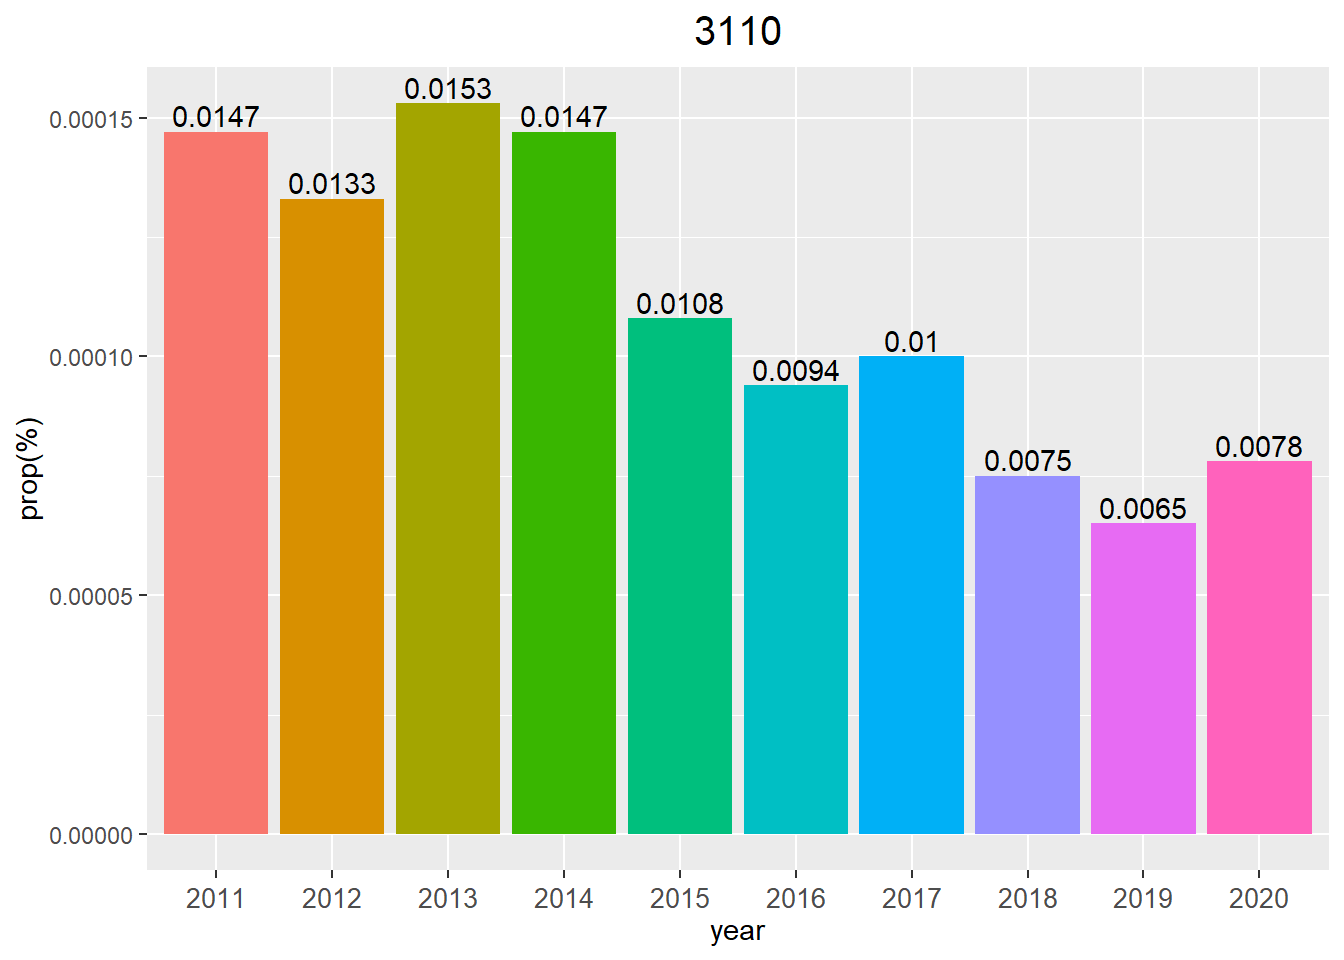
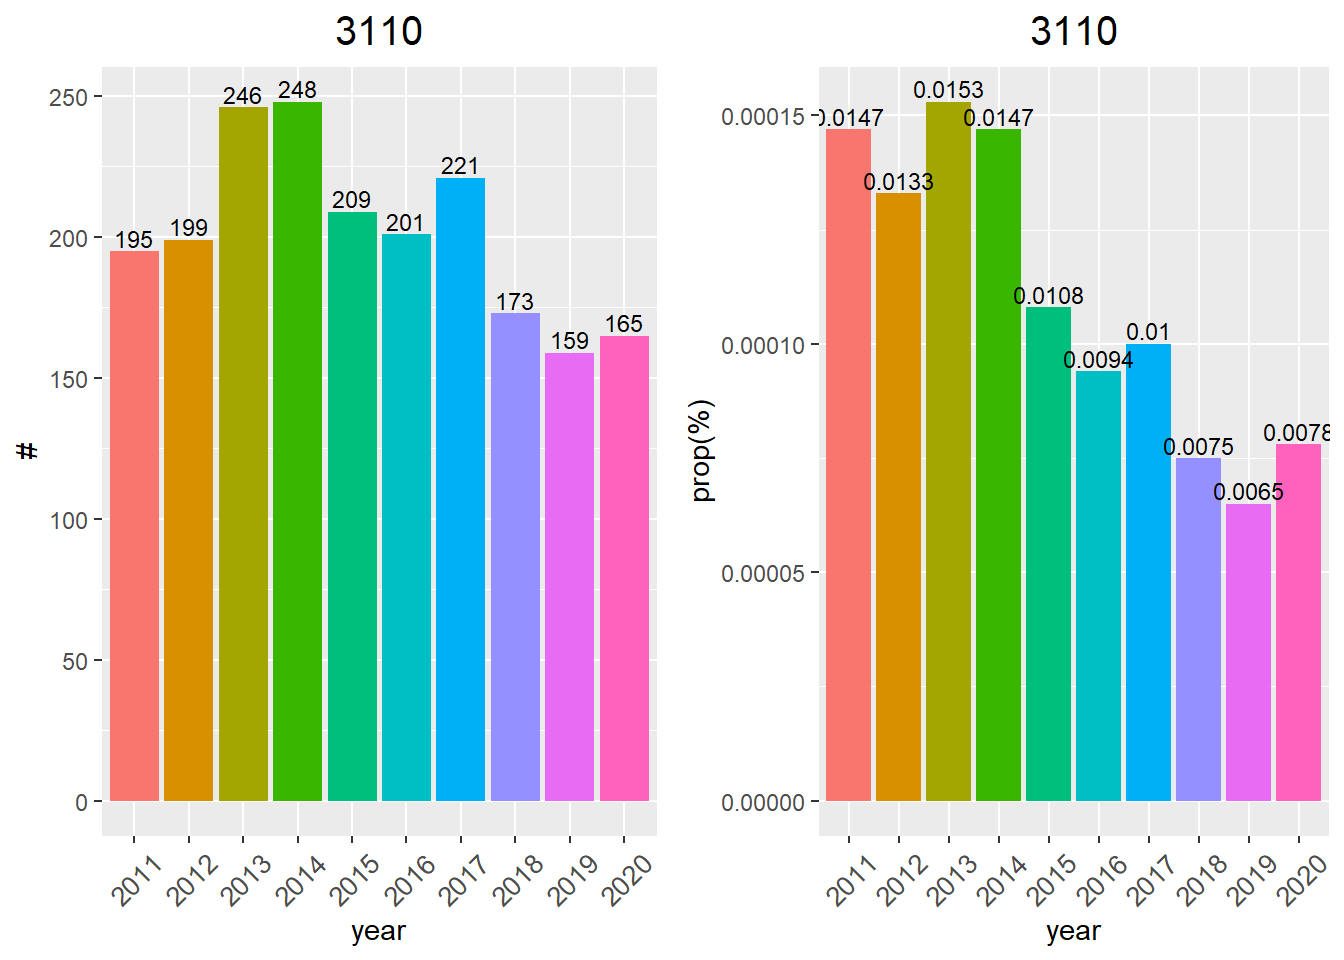
6/20/2024

diff --git a/docs/ddwi_part1.html b/docs/ddwi_part1.html
@@ -558,15 +558,15 @@ project makes it easier to run your code on other machines.</p>
 <div class="panel panel-default">
 <div class="panel-heading">
 <p class="panel-title">
-<a data-toggle="collapse" data-parent="#workflowr-checks" href="#strongRepositoryversionstrongahrefhttpsgithubcomhan16Oralpublichealthtree1479a72ddec0b7ba03f8299687828614fe512211targetblank1479a72a">
+<a data-toggle="collapse" data-parent="#workflowr-checks" href="#strongRepositoryversionstrongahrefhttpsgithubcomhan16Oralpublichealthtreee62c87ba8ab22a635fc8ad85d6e9c2c783a807fctargetblanke62c87ba">
 <span class="glyphicon glyphicon-ok text-success"
 aria-hidden="true"></span> <strong>Repository version:</strong>
-<a href="https://github.com/han16/Oral-public-health/tree/1479a72ddec0b7ba03f8299687828614fe512211" target="_blank">1479a72</a>
+<a href="https://github.com/han16/Oral-public-health/tree/e62c87ba8ab22a635fc8ad85d6e9c2c783a807fc" target="_blank">e62c87b</a>
 </a>
 </p>
 </div>
 <div
[2 lines of base64/hex data omitted]
 class="panel-collapse collapse">
 <div class="panel-body">
 <p>
@@ -576,7 +576,7 @@ reproducibility.
 </p>
 <p>
 The results in this page were generated with repository version
-<a href="https://github.com/han16/Oral-public-health/tree/1479a72ddec0b7ba03f8299687828614fe512211" target="_blank">1479a72</a>.
+<a href="https://github.com/han16/Oral-public-health/tree/e62c87ba8ab22a635fc8ad85d6e9c2c783a807fc" target="_blank">e62c87b</a>.
 See the <em>Past versions</em> tab to see a history of the changes made
 to the R Markdown and HTML files.
 </p>
@@ -642,6 +642,40 @@ Message
 </tr>
 </thead>
 <tbody>
+<tr>
+<td>
+Rmd
+</td>
+<td>
+<a href="https://github.com/han16/Oral-public-health/blob/e62c87ba8ab22a635fc8ad85d6e9c2c783a807fc/analysis/ddwi_part1.Rmd" target="_blank">e62c87b</a>
+</td>
+<td>
+han
+</td>
+<td>
+2024-06-20
+</td>
+<td>
+6/20/2024
+</td>
+</tr>
+<tr>
+<td>
+html
+</td>
+<td>
+<a href="https://rawcdn.githack.com/han16/Oral-public-health/e62c87ba8ab22a635fc8ad85d6e9c2c783a807fc/docs/ddwi_part1.html" target="_blank">e62c87b</a>
+</td>
+<td>
+han
+</td>
+<td>
+2024-06-20
+</td>
+<td>
+6/20/2024
+</td>
+</tr>
 <tr>
 <td>
 Rmd
@@ -722,7 +756,7 @@ han
 <div id="d3110-pr-pulp-cap---direct-excluding-final-restoration"
 class="section level3">
 <h3>D3110 PR PULP CAP - DIRECT (EXCLUDING FINAL RESTORATION)</h3>
-<pre class="r"><code>num=numeric(); prop=numeric()
+<pre class="r"><code>num=numeric(); prop=numeric(); total_claims=numeric()
 code=3110
 for (i in 1:length(all_data))
 {
@@ -730,75 +764,32 @@ for (i in 1:length(all_data))
   {
   num[i]=sum(all_data[[i]]$`Claims and Provider `$`Submitted Procedure Code`==code)+sum(all_data[[i]]$`Claims and Provider (1)`$`Submitted Procedure Code`==code)
   prop[i]=num[i]/(nrow(all_data[[i]]$`Claims and Provider `)+nrow(all_data[[i]]$`Claims and Provider (1)`))
+  total_claims[i]=nrow(all_data[[i]]$`Claims and Provider `)+nrow(all_data[[i]]$`Claims and Provider (1)`)
+  prop[i]=num[i]/total_claims[i]
   }
   
   if (i&gt;=6)
   {
   num[i]=sum(all_data[[i]]$`Claims and Provider `$`Submitted Procedure Code`==code)+sum(all_data[[i]]$`Claims and Provider (1)`$`Submitted Procedure Code`==code)+sum(all_data[[i]]$`Claims and Provider (2)`$`Submitted Procedure Code`==code)
-  prop[i]=num[i]/(nrow(all_data[[i]]$`Claims and Provider `)+nrow(all_data[[i]]$`Claims and Provider (1)`)+nrow(all_data[[i]]$`Claims and Provider (2)`))
+  total_claims[i]=nrow(all_data[[i]]$`Claims and Provider `)+nrow(all_data[[i]]$`Claims and Provider (1)`)+nrow(all_data[[i]]$`Claims and Provider (2)`)
+  prop[i]=num[i]/total_claims[i]
   
   }
   
 }</code></pre>
-<p><img src="figure/ddwi_part1.Rmd/unnamed-chunk-5-1.png" width="672" style="display: block; margin: auto;" /></p>
-<p>
-<button type="button" class="btn btn-default btn-xs btn-workflowr btn-workflowr-fig" data-toggle="collapse" data-target="#fig-unnamed-chunk-5-1">
-Past versions of unnamed-chunk-5-1.png
-</button>
-</p>
-<div id="fig-unnamed-chunk-5-1" class="collapse">
-<div class="table-responsive">
-<table class="table table-condensed table-hover">
-<thead>
-<tr>
-<th>
-Version
-</th>
-<th>
-Author
-</th>
-<th>
-Date
-</th>
-</tr>
-</thead>
-<tbody>
-<tr>
-<td>
-<a href="https://github.com/han16/Oral-public-health/blob/1479a72ddec0b7ba03f8299687828614fe512211/docs/figure/ddwi_part1.Rmd/unnamed-chunk-5-1.png" target="_blank">1479a72</a>
-</td>
-<td>
-han
-</td>
-<td>
-2024-06-19
-</td>
-</tr>
-<tr>
-<td>
-<a href="https://github.com/han16/Oral-public-health/blob/011b3b8053f3ca28bf3fa69aa0ada1609bd9046f/docs/figure/ddwi_part1.Rmd/unnamed-chunk-5-1.png" target="_blank">011b3b8</a>
-</td>
-<td>
-han
-</td>
-<td>
-2024-06-18
-</td>
-</tr>
-</tbody>
-</table>
-</div>
-</div>
 <div class="datatables html-widget html-fill-item" id="htmlwidget-9eceb20dc2a931752ae4" style="width:100%;height:auto;"></div>
-<script type="application/json" data-for="htmlwidget-9eceb20dc2a931752ae4">{"x":{"filter":"none","vertical":false,"extensions":["Buttons"],"data":[["1","2","3","4","5","6","7","8","9","10"],[195,199,246,248,209,201,221,173,159,165],[0.000147,0.000133,0.000153,0.000147,0.000108,9.399999999999999e-05,0.0001,7.499999999999999e-05,6.499999999999999e-05,7.8e-05],["2011","2012","2013","2014","2015","2016","2017","2018","2019","2020"]],"container":"<table class=\"display\">\n  <thead>\n    <tr>\n      <th> <\/th>\n      <th>num<\/th>\n      <th>prop<\/th>\n      <th>year<\/th>\n    <\/tr>\n  <\/thead>\n<\/table>","options":{"dom":"Blfrtip","buttons":["copy","csv","excel","pdf","print"],"lengthMenu":[[10,25,50,-1],["10","25","50","All"]],"columnDefs":[{"className":"dt-right","targets":[1,2]},{"orderable":false,"targets":0},{"name":" ","targets":0},{"name":"num","targets":1},{"name":"prop","targets":2},{"name":"year","targets":3}],"order":[],"autoWidth":false,"orderClasses":false},"selection":{"mode":"multiple","selected":null,"target":"row","selectable":null}},"evals":[],"jsHooks":[]}</script>
-<pre class="r"><code>ggplot(data.frame(num=num, prop=round(prop,6), year=as.factor(year)), aes(x=year, y=prop, fill=year)) +geom_bar(position = &quot;dodge&quot;, stat=&quot;identity&quot;)+
+<script type="application/json" data-for="htmlwidget-9eceb20dc2a931752ae4">{"x":{"filter":"none","vertical":false,"extensions":["Buttons"],"data":[["1","2","3","4","5","6","7","8","9","10"],[195,199,246,248,209,201,221,173,159,165],[1326647,1500840,1610653,1688801,1928769,2146982,2203739,2302293,2432661,2120560],[0.000147,0.000133,0.000153,0.000147,0.000108,9.399999999999999e-05,0.0001,7.499999999999999e-05,6.499999999999999e-05,7.8e-05],["2011","2012","2013","2014","2015","2016","2017","2018","2019","2020"]],"container":"<table class=\"display\">\n  <thead>\n    <tr>\n      <th> <\/th>\n      <th>num<\/th>\n      <th>total_claims<\/th>\n      <th>prop<\/th>\n      <th>year<\/th>\n    <\/tr>\n  <\/thead>\n<\/table>","options":{"dom":"Blfrtip","buttons":["copy","csv","excel","pdf","print"],"lengthMenu":[[10,25,50,-1],["10","25","50","All"]],"columnDefs":[{"className":"dt-right","targets":[1,2,3]},{"orderable":false,"targets":0},{"name":" ","targets":0},{"name":"num","targets":1},{"name":"total_claims","targets":2},{"name":"prop","targets":3},{"name":"year","targets":4}],"order":[],"autoWidth":false,"orderClasses":false},"selection":{"mode":"multiple","selected":null,"target":"row","selectable":null}},"evals":[],"jsHooks":[]}</script>
+<pre class="r"><code>p2=ggplot(data.frame(num=num, prop=round(prop,6), year=as.factor(year)), aes(x=year, y=prop, fill=year)) +geom_bar(position = &quot;dodge&quot;, stat=&quot;identity&quot;)+
  # ylim(c(0, 0.4))+
   ylab(&quot;prop(%)&quot;)+xlab(&quot;year&quot;)+
   theme(legend.position=&quot;none&quot;)+
-  theme(axis.text.x = element_text(angle = 0, vjust = 0.5, size=10))+
-  geom_text(aes(label=prop*100), position=position_dodge(width=0.9), vjust=-0.25)+  # add numbers over bars
+  theme(axis.text.x = element_text(angle = 45, vjust = 0.5, size=10))+
+  geom_text(aes(label=prop*100), position=position_dodge(width=0.9), vjust=-0.25, size=3)+  # add numbers over bars
   ggtitle(code)+
-  theme(plot.title = element_text(hjust = 0.5, size=15))  #center the title </code></pre>
+  theme(plot.title = element_text(hjust = 0.5, size=15))  #center the title 
+
+
+grid.arrange(p1, p2, ncol = 2)</code></pre>
 <p><img src="figure/ddwi_part1.Rmd/unnamed-chunk-6-1.png" width="672" style="display: block; margin: auto;" /></p>
 <p>
 <button type="button" class="btn btn-default btn-xs btn-workflowr btn-workflowr-fig" data-toggle="collapse" data-target="#fig-unnamed-chunk-6-1">
